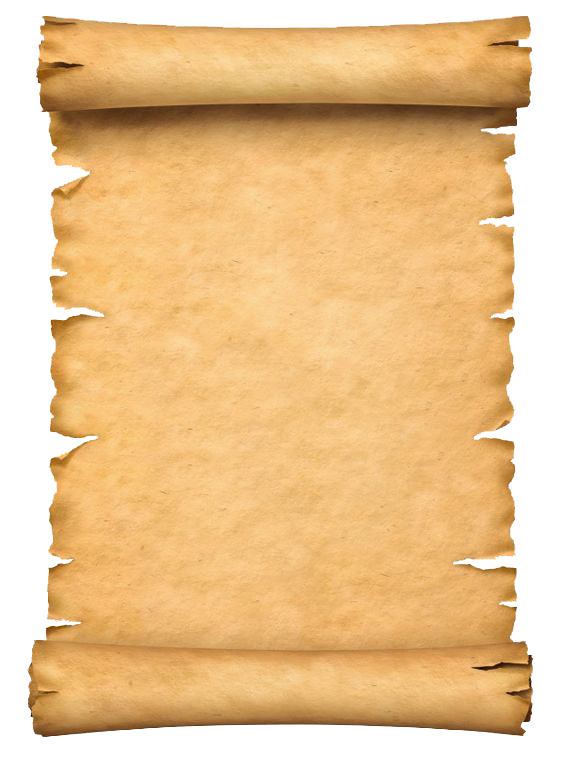
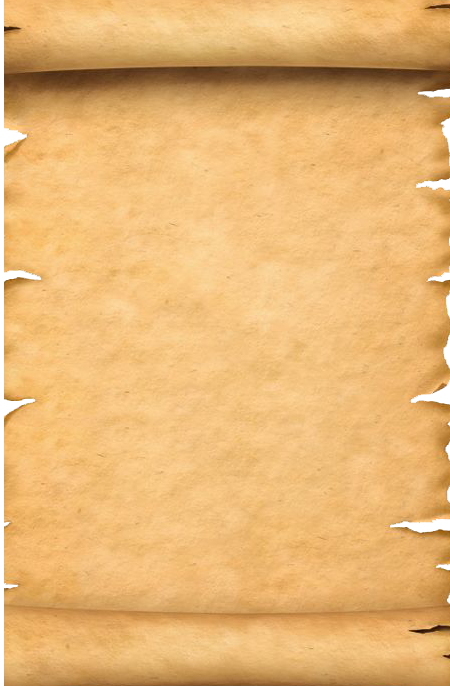
final

diff --git a/about.html b/about.html
@@ -55,15 +55,21 @@
       <p class = "about-paragraph">
           Welcome to ValiantArms, where the echoes of medieval valor come to life in the digital realm. At ValiantArms, we invite you to step into a world of craftsmanship and courage, where warriors once roamed the lands in pursuit of honor and glory. Our marketplace is a tribute to the spirit of chivalry, offering an exquisite collection of finely crafted medieval weapons that bridge the gap between history and the modern age.
 
-Our Tale:
-Embark on a journey with us as we uncover the legends of bygone battles, gallant knights, and the artistry of medieval craftsmanship. ValiantArms is not just a purveyor of weaponry; we are custodians of stories, weaving narratives that harken back to a time when swords were revered as extensions of a warrior's soul and armor clanked through ancient castles.
 
+<br> <br>
+  Our Tale:
+  Embark on a journey with us as we uncover the legends of bygone battles, gallant knights, and the artistry of medieval craftsmanship. ValiantArms is not just a purveyor of weaponry; we are custodians of stories, weaving narratives that harken back to a time when swords were revered as extensions of a warrior's soul and armor clanked through ancient castles.
+
+
+<br> <br>
 Craftsmanship and Quality:
 Every blade, pommel, and hilt in the ValiantArms collection is a testament to the dedication of skilled artisans who meticulously recreate the splendor of medieval weaponry. From battle-ready swords to elegant daggers, each piece is crafted using traditional techniques, ensuring authenticity and durability. ValiantArms takes pride in offering weapons that capture the essence of the medieval era while meeting the highest standards of quality.
 
+<br> <br>
 Our Mission:
 At ValiantArms, our mission is to empower modern warriors and enthusiasts with a profound connection to the past. Whether you are a history buff, a reenactor, or someone with an appreciation for fine craftsmanship, our collection is designed to cater to your passion. We believe that every weapon tells a story and has the power to evoke a sense of reverence for the past.
 
+<br> <br>
 Commitment to Service:
 As stewards of this unique journey through time, the ValiantArms team is committed to providing unparalleled service. We understand the importance of authenticity and stand by the quality of our products. ValiantArms is more than just a marketplace; it's an invitation to wield the power of the past and become a part of our medieval legacy.
 

diff --git a/style.css b/style.css
@@ -200,8 +200,9 @@ a:hover{
     /* background-image: linear-gradient(rgb(52, 195, 64), rgb(62, 153, 195)); */
     /* background-image: linear-gradient(to right, #434343 0%, black 100%); */
     background-image: url(assets/scroll.png);
-    font-weight: 600;
     background-size: cover;
+    background-repeat: no-repeat;
+    font-weight: 600;
 }
 
 fieldset {
@@ -433,7 +434,10 @@ ul li .fa
 
 }
 
-
+.about-paragraph{
+    font-size: 1.2rem;
+    color: #e4e4e4;
+}
 
 
 
